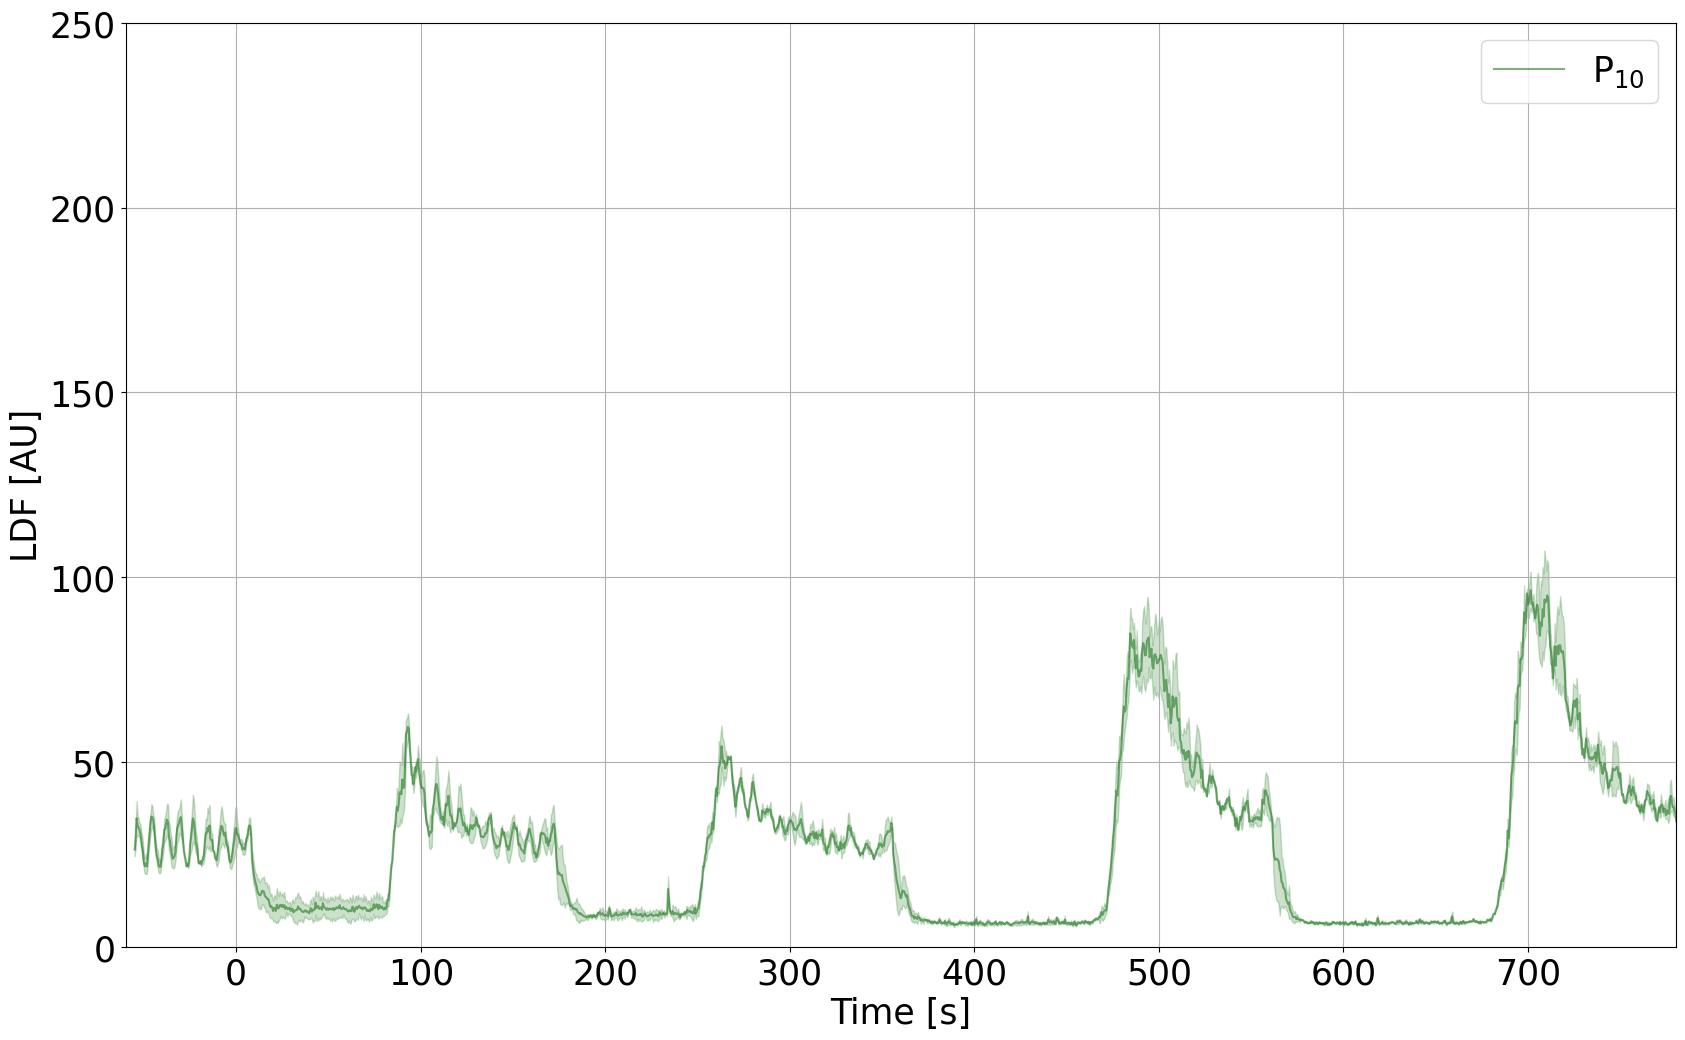
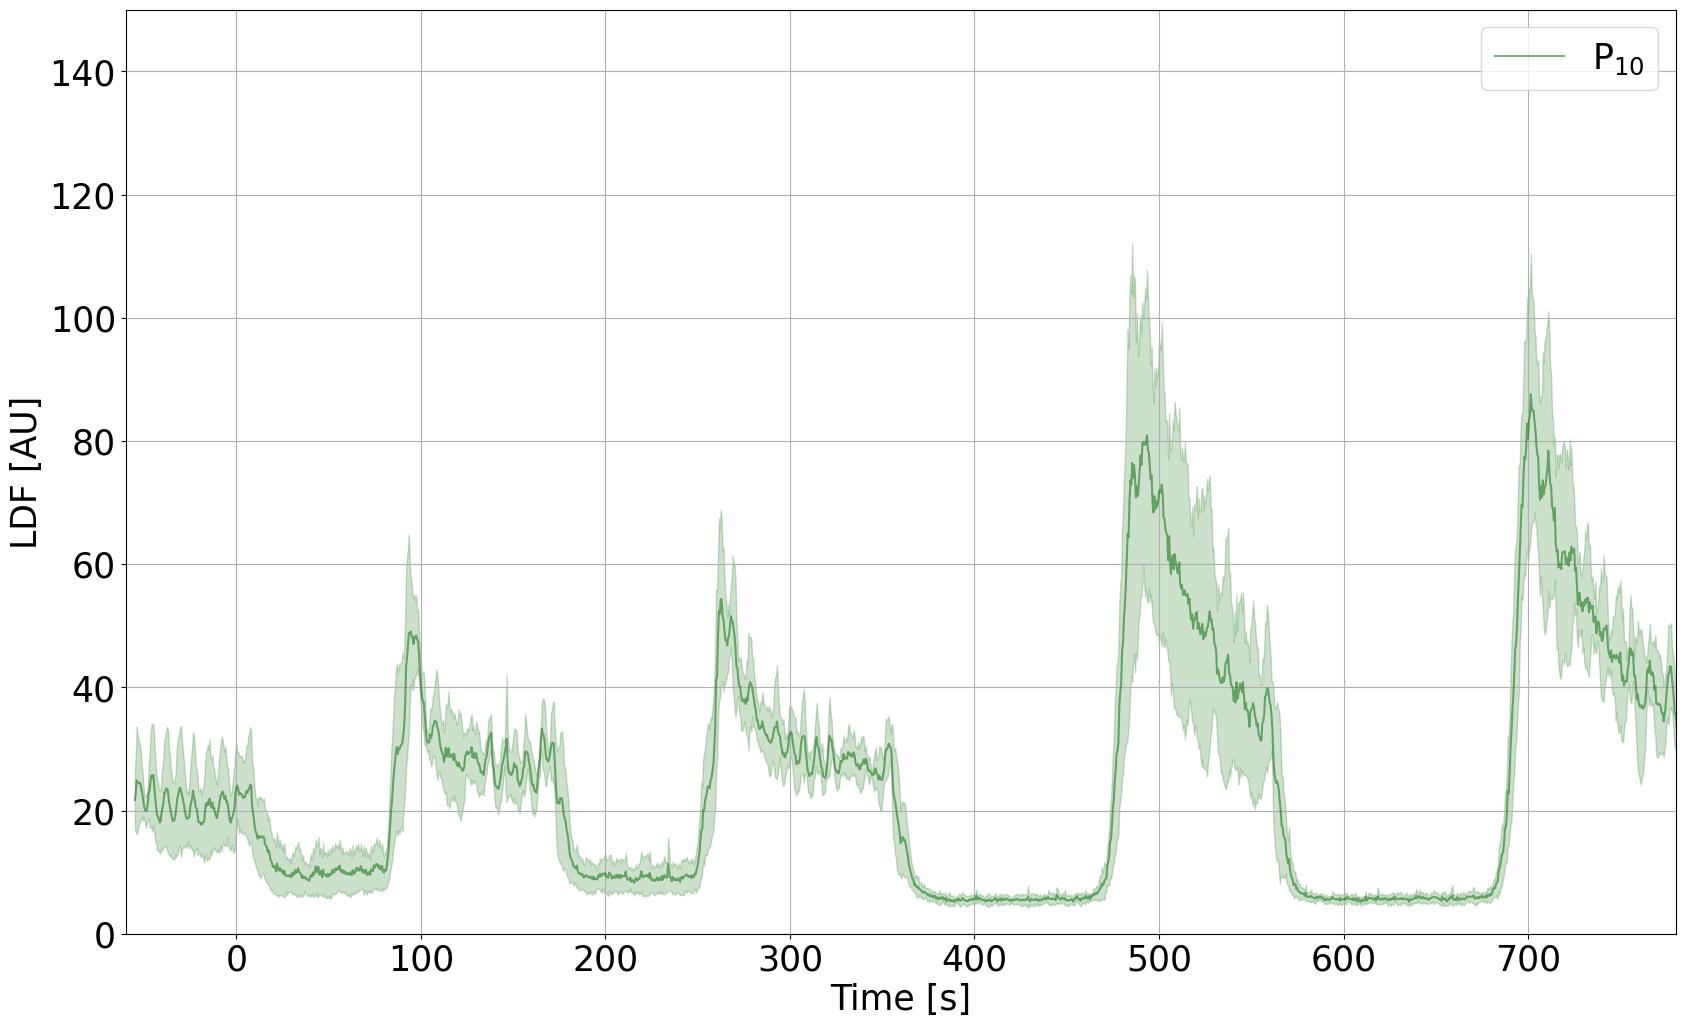
update

diff --git a/Experimental_Data/LDF_post_treatment.py b/Experimental_Data/LDF_post_treatment.py
@@ -2474,7 +2474,7 @@ plt.plot(_034_PREVAIL_LBM_034["j1_2"]["temps (s)"][index_12__034-110:index_12__0
 plt.fill_between(_034_PREVAIL_LBM_034["j1_2"]["temps (s)"][index_12__034-110:index_12__034+length_list__034], _034_mms_raw, _034_mps_raw, color='darkgreen', alpha=0.2)
 plt.legend()
 plt.xlim([-60, 780])
-plt.ylim([0, 250])
+plt.ylim([0, 150])
 plt.xlabel("Time [s]")
 plt.ylabel("LDF [AU]")
 plt.grid()
@@ -3195,124 +3195,129 @@ all_mps_pc = [all_means_pc[i] +  all_std_pc[i] for i in range(len(all_means_pc))
 
 
 
-initial_baseline = np.mean( all_means[:110] )
-std_initial = np.mean( all_std[:110] )
-print('baseline LDF AU:',initial_baseline, '$\\pm$', std_initial)
-
 initial_temp = np.mean( all_means_temp[:110] )
 std_initial_temp = np.mean( all_std_temp[:110] )
 print('Initial Temperature °C:',initial_temp, '$\\pm$', std_initial_temp)
 
 
-first_occlusions = np.mean( [ all_means[60+110:160+110],all_means[350+110:450+110] ] )
-std_fo = np.mean( [ np.mean(all_std[60+110:160+110]),np.mean(all_std[60+110:150+110]) ] )
+initial_baseline = np.mean( all_means[:110] )
+std_initial = np.mean( all_std[:110] )
+print('baseline LDF AU:',initial_baseline, '$\\pm$', std_initial)
+
+first_occlusions = np.mean( [ all_means[60+110:160+110],all_means[400+110:500+110] ] )
+std_fo = np.mean( [ np.mean(all_std[60+110:160+110]),np.mean(all_std[400+110:500+110]) ] )
 print('First occlusion LDF AU:',first_occlusions, '$\\pm$', std_fo)
 
-last_occlusions = np.mean( [ all_means[720+110:820+110],all_means[1125+110:1225+110] ] )
-std_lo = np.mean( [ np.mean(all_std[720+110:820+110]),np.mean(all_std[1125+110:1225+110]) ] )
+last_occlusions = np.mean( [ all_means[800+110:900+110],all_means[1200+110:1300+110] ] )
+std_lo = np.mean( [ np.mean(all_std[800+110:900+110]),np.mean(all_std[1200+110:1300+110]) ] )
 print('Last occlusion LDF AU:',last_occlusions, '$\\pm$', std_lo)
 
 
-first_occlusions_pc = np.mean( [ all_means_pc[60:160],all_means_pc[350:450] ] )
-std_fo_pc = np.mean( [ np.mean(all_std_pc[60:160]),np.mean(all_std_pc[60:150]) ] )
+first_occlusions_pc = np.mean( [ all_means_pc[60:160],all_means_pc[400:500] ] )
+std_fo_pc = np.mean( [ np.mean(all_std_pc[60:160]),np.mean(all_std_pc[400:500]) ] )
 print('First occlusion LDF %:',first_occlusions_pc, '$\\pm$', std_fo_pc)
 
-last_occlusions_pc = np.mean( [ all_means_pc[720:820],all_means_pc[1125:1225] ] )
-std_lo_pc = np.mean( [ np.mean(all_std_pc[720:820]),np.mean(all_std_pc[1125:1225]) ] )
+last_occlusions_pc = np.mean( [ all_means_pc[800:900],all_means_pc[1200:1300] ] )
+std_lo_pc = np.mean( [ np.mean(all_std_pc[800:900]),np.mean(all_std_pc[1200:1300]) ] )
 print('Last occlusion LDF %:',last_occlusions_pc, '$\\pm$', std_lo_pc)
 
-idex0 = 60+110
-idex = 160+110
-t = np.linspace(idex0,idex,idex-idex0)
+# idex0 = 60+110
+# idex = 160+110
+# t = np.linspace(idex0,idex,idex-idex0)
 
-plt.figure(figsize=(10, 6))
-plt.plot(t, _009_mean_signal_raw[idex0:idex], label="Original Signal", alpha=0.5)
-plt.savefig('./Figures/check_time_range_occlusion_1.png')
-plt.close()
+# len_t = len(all_means)
+# tcheck = np.linspace(0,_028_PREVAIL_LBM_028["j1_2"]["temps (s)"][index_12__028+length_list__028],len_t)
 
-idex0 = 350+110
-idex = 450+110
-t = np.linspace(idex0,idex,idex-idex0)
+# plt.figure(figsize=(10, 6))
+# plt.plot(tcheck, all_means, alpha=0.5)
+# plt.plot(t, all_means[idex0:idex], label="Original Signal", alpha=0.5)
+# plt.savefig('./Figures/check_time_range_occlusion_1.png')
+# plt.close()
 
-plt.figure(figsize=(10, 6))
-plt.plot(t, _009_mean_signal_raw[idex0:idex], label="Original Signal", alpha=0.5)
-plt.savefig('./Figures/check_time_range_occlusion_2.png')
-plt.close()
+# idex0 = 400+110
+# idex = 500+110
+# t = np.linspace(idex0,idex,idex-idex0)
 
-
-
-idex0 = 720+110
-idex = 820+110
-t = np.linspace(idex0,idex,idex-idex0)
-
-plt.figure(figsize=(10, 6))
-plt.plot(t, _009_mean_signal_raw[idex0:idex], label="Original Signal", alpha=0.5)
-plt.savefig('./Figures/check_time_range_occlusion_3.png')
-plt.close()
+# plt.figure(figsize=(10, 6))
+# plt.plot(tcheck, all_means, alpha=0.5)
+# plt.plot(t, all_means[idex0:idex], label="Original Signal", alpha=0.5)
+# plt.savefig('./Figures/check_time_range_occlusion_2.png')
+# plt.close()
 
 
 
-idex0 = 1125+110
-idex = 1225+110
-t = np.linspace(idex0,idex,idex-idex0)
+# idex0 = 800+110
+# idex = 900+110
+# t = np.linspace(idex0,idex,idex-idex0)
 
-plt.figure(figsize=(10, 6))
-plt.plot(t, _009_mean_signal_raw[idex0:idex], label="Original Signal", alpha=0.5)
-plt.savefig('./Figures/check_time_range_occlusion_4.png')
-plt.close()
-
-
-idex0 = 60
-idex = 160
-t = np.linspace(idex0,idex,idex-idex0)
-
-plt.figure(figsize=(10, 6))
-plt.plot(t, _009_mean_signal_raw[idex0:idex], label="Original Signal", alpha=0.5)
-plt.savefig('./Figures/check_time_range_occlusion_1pc.png')
-plt.close()
-
-
-idex0 = 350
-idex = 450
-t = np.linspace(idex0,idex,idex-idex0)
-
-plt.figure(figsize=(10, 6))
-plt.plot(t, _009_mean_signal_raw[idex0:idex], label="Original Signal", alpha=0.5)
-plt.savefig('./Figures/check_time_range_occlusion_2pc.png')
-plt.close()
+# plt.figure(figsize=(10, 6))
+# plt.plot(tcheck, all_means, alpha=0.5)
+# plt.plot(t, all_means[idex0:idex], label="Original Signal", alpha=0.5)
+# plt.savefig('./Figures/check_time_range_occlusion_3.png')
+# plt.close()
 
 
 
-idex0 = 720
-idex = 820
-t = np.linspace(idex0,idex,idex-idex0)
+# idex0 = 1200+110
+# idex = 1300+110
+# t = np.linspace(idex0,idex,idex-idex0)
 
-plt.figure(figsize=(10, 6))
-plt.plot(t, _009_mean_signal_raw[idex0:idex], label="Original Signal", alpha=0.5)
-plt.savefig('./Figures/check_time_range_occlusion_3pc.png')
-plt.close()
-
-
-
-idex0 = 1125
-idex = 1225
-t = np.linspace(idex0,idex,idex-idex0)
-
-plt.figure(figsize=(10, 6))
-plt.plot(t, _009_mean_signal_raw[idex0:idex], label="Original Signal", alpha=0.5)
-plt.savefig('./Figures/check_time_range_occlusion_4pc.png')
-plt.close()
+# plt.figure(figsize=(10, 6))
+# plt.plot(tcheck, all_means, alpha=0.5)
+# plt.plot(t, all_means[idex0:idex], label="Original Signal", alpha=0.5)
+# plt.savefig('./Figures/check_time_range_occlusion_4.png')
+# plt.close()
 
 
 
+# len_t = len(all_means_pc)
+# tcheck = np.linspace(0,_028_PREVAIL_LBM_028["j1_2"]["temps (s)"][index_12__028+length_list__028],len_t)
+
+
+# idex0 = 60
+# idex = 160
+# t = np.linspace(idex0,idex,idex-idex0)
+
+# plt.figure(figsize=(10, 6))
+# plt.plot(tcheck, all_means_pc, alpha=0.5)
+# plt.plot(t, all_means_pc[idex0:idex], label="Original Signal", alpha=0.5)
+# plt.savefig('./Figures/check_time_range_occlusion_1pc.png')
+# plt.close()
+
+
+# idex0 = 400
+# idex = 500
+# t = np.linspace(idex0,idex,idex-idex0)
+
+# plt.figure(figsize=(10, 6))
+# plt.plot(tcheck, all_means_pc, alpha=0.5)
+# plt.plot(t, all_means_pc[idex0:idex], label="Original Signal", alpha=0.5)
+# plt.savefig('./Figures/check_time_range_occlusion_2pc.png')
+# plt.close()
 
 
 
+# idex0 = 800
+# idex = 900
+# t = np.linspace(idex0,idex,idex-idex0)
+
+# plt.figure(figsize=(10, 6))
+# plt.plot(tcheck, all_means_pc, alpha=0.5)
+# plt.plot(t, all_means_pc[idex0:idex], label="Original Signal", alpha=0.5)
+# plt.savefig('./Figures/check_time_range_occlusion_3pc.png')
+# plt.close()
 
 
 
+# idex0 = 1200
+# idex = 1300
+# t = np.linspace(idex0,idex,idex-idex0)
 
-
+# plt.figure(figsize=(10, 6))
+# plt.plot(tcheck, all_means_pc, alpha=0.5)
+# plt.plot(t, all_means_pc[idex0:idex], label="Original Signal", alpha=0.5)
+# plt.savefig('./Figures/check_time_range_occlusion_4pc.png')
+# plt.close()
 
 
 
@@ -3723,31 +3728,29 @@ all_mps_pc = [all_means_pc[i] +  all_std_pc[i] for i in range(len(all_means_pc))
 
 
 
+initial_temp = np.mean( all_means_temp[:110] )
+std_initial_temp = np.mean( all_std_temp[:110] )
+print('Initial Temperature °C: M',initial_temp, '$\\pm$', std_initial_temp)
 
 initial_baseline = np.mean( all_means[:110] )
 std_initial = np.mean( all_std[:110] )
 print('baseline LDF AU: M',initial_baseline, '$\\pm$', std_initial)
 
-initial_temp = np.mean( all_means_temp[:110] )
-std_initial_temp = np.mean( all_std_temp[:110] )
-print('Initial Temperature °C: M',initial_temp, '$\\pm$', std_initial_temp)
-
-
-first_occlusions = np.mean( [ all_means[60+110:160+110],all_means[350+110:450+110] ] )
-std_fo = np.mean( [ np.mean(all_std[60+110:160+110]),np.mean(all_std[60+110:150+110]) ] )
+first_occlusions = np.mean( [ all_means[60+110:160+110],all_means[400+110:500+110] ] )
+std_fo = np.mean( [ np.mean(all_std[60+110:160+110]),np.mean(all_std[400+110:500+110]) ] )
 print('First occlusion LDF AU: M',first_occlusions, '$\\pm$', std_fo)
 
-last_occlusions = np.mean( [ all_means[720+110:820+110],all_means[1125+110:1225+110] ] )
-std_lo = np.mean( [ np.mean(all_std[720+110:820+110]),np.mean(all_std[1125+110:1225+110]) ] )
+last_occlusions = np.mean( [ all_means[800+110:900+110],all_means[1200+110:1300+110] ] )
+std_lo = np.mean( [ np.mean(all_std[800+110:900+110]),np.mean(all_std[1200+110:1300+110]) ] )
 print('Last occlusion LDF AU: M',last_occlusions, '$\\pm$', std_lo)
 
 
-first_occlusions_pc = np.mean( [ all_means_pc[60:160],all_means_pc[350:450] ] )
-std_fo_pc = np.mean( [ np.mean(all_std_pc[60:160]),np.mean(all_std_pc[60:150]) ] )
+first_occlusions_pc = np.mean( [ all_means_pc[60:160],all_means_pc[400:500] ] )
+std_fo_pc = np.mean( [ np.mean(all_std_pc[60:160]),np.mean(all_std_pc[400:500]) ] )
 print('First occlusion LDF M %:',first_occlusions_pc, '$\\pm$', std_fo_pc)
 
-last_occlusions_pc = np.mean( [ all_means_pc[720:820],all_means_pc[1125:1225] ] )
-std_lo_pc = np.mean( [ np.mean(all_std_pc[720:820]),np.mean(all_std_pc[1125:1225]) ] )
+last_occlusions_pc = np.mean( [ all_means_pc[800:900],all_means_pc[1200:1300] ] )
+std_lo_pc = np.mean( [ np.mean(all_std_pc[800:900]),np.mean(all_std_pc[1200:1300]) ] )
 print('Last occlusion LDF M %:',last_occlusions_pc, '$\\pm$', std_lo_pc)
 
 
@@ -3967,28 +3970,28 @@ all_mps_pc = [all_means_pc[i] +  all_std_pc[i] for i in range(len(all_means_pc))
 
 
 
-initial_baseline = np.mean( all_means[:110] )
-std_initial = np.mean( all_std[:110] )
-print('baseline LDF AU F:',initial_baseline, '$\\pm$', std_initial)
 
 initial_temp = np.mean( all_means_temp[:110] )
 std_initial_temp = np.mean( all_std_temp[:110] )
 print('Initial Temperature °C F:',initial_temp, '$\\pm$', std_initial_temp)
 
+initial_baseline = np.mean( all_means[:110] )
+std_initial = np.mean( all_std[:110] )
+print('baseline LDF AU F:',initial_baseline, '$\\pm$', std_initial)
 
-first_occlusions = np.mean( [ all_means[60+110:160+110],all_means[350+110:450+110] ] )
-std_fo = np.mean( [ np.mean(all_std[60+110:160+110]),np.mean(all_std[60+110:150+110]) ] )
+first_occlusions = np.mean( [ all_means[60+110:160+110],all_means[400+110:500+110] ] )
+std_fo = np.mean( [ np.mean(all_std[60+110:160+110]),np.mean(all_std[400+110:500+110]) ] )
 print('First occlusion LDF AU F:',first_occlusions, '$\\pm$', std_fo)
 
-last_occlusions = np.mean( [ all_means[720+110:820+110],all_means[1125+110:1225+110] ] )
-std_lo = np.mean( [ np.mean(all_std[720+110:820+110]),np.mean(all_std[1125+110:1225+110]) ] )
+last_occlusions = np.mean( [ all_means[800+110:900+110],all_means[1200+110:1300+110] ] )
+std_lo = np.mean( [ np.mean(all_std[800+110:900+110]),np.mean(all_std[1200+110:1300+110]) ] )
 print('Last occlusion LDF AU F:',last_occlusions, '$\\pm$', std_lo)
 
 
-first_occlusions_pc = np.mean( [ all_means_pc[60:160],all_means_pc[350:450] ] )
-std_fo_pc = np.mean( [ np.mean(all_std_pc[60:160]),np.mean(all_std_pc[60:150]) ] )
+first_occlusions_pc = np.mean( [ all_means_pc[60:160],all_means_pc[400:500] ] )
+std_fo_pc = np.mean( [ np.mean(all_std_pc[60:160]),np.mean(all_std_pc[400:500]) ] )
 print('First occlusion LDF F % :',first_occlusions_pc, '$\\pm$', std_fo_pc)
 
-last_occlusions_pc = np.mean( [ all_means_pc[720:820],all_means_pc[1125:1225] ] )
-std_lo_pc = np.mean( [ np.mean(all_std_pc[720:820]),np.mean(all_std_pc[1125:1225]) ] )
+last_occlusions_pc = np.mean( [ all_means_pc[800:900],all_means_pc[1200:1300] ] )
+std_lo_pc = np.mean( [ np.mean(all_std_pc[800:900]),np.mean(all_std_pc[1200:1300]) ] )
 print('Last occlusion LDF F %:',last_occlusions_pc, '$\\pm$', std_lo_pc)
